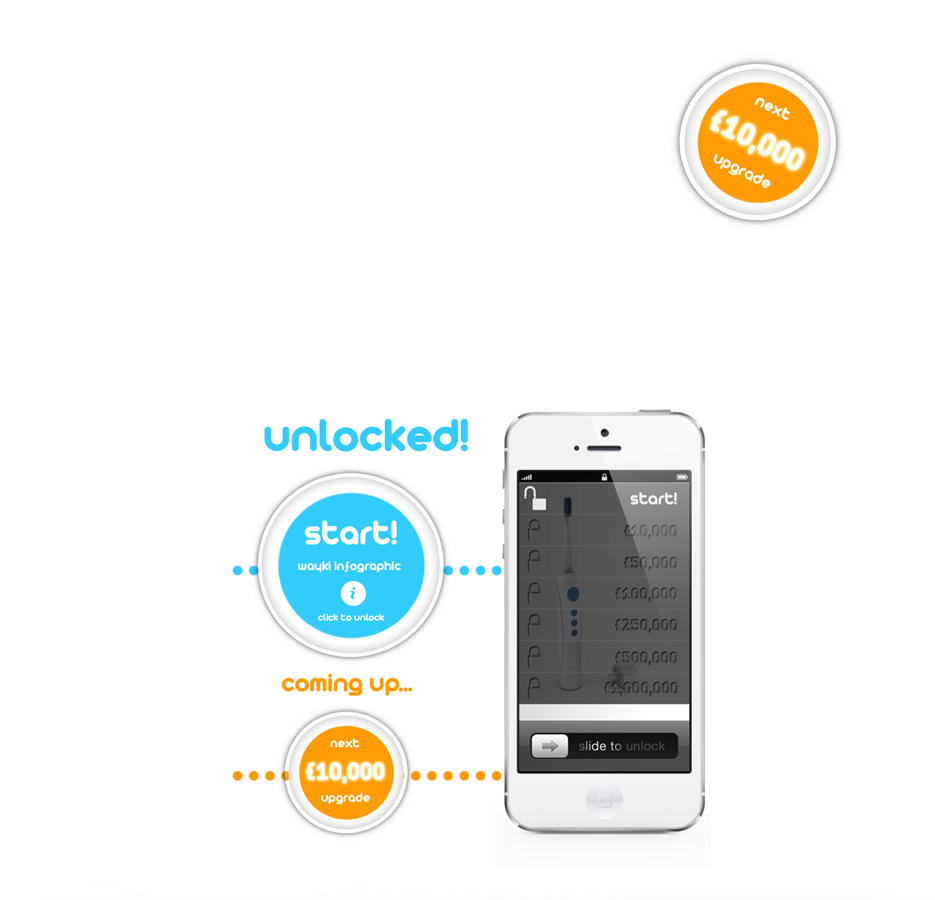
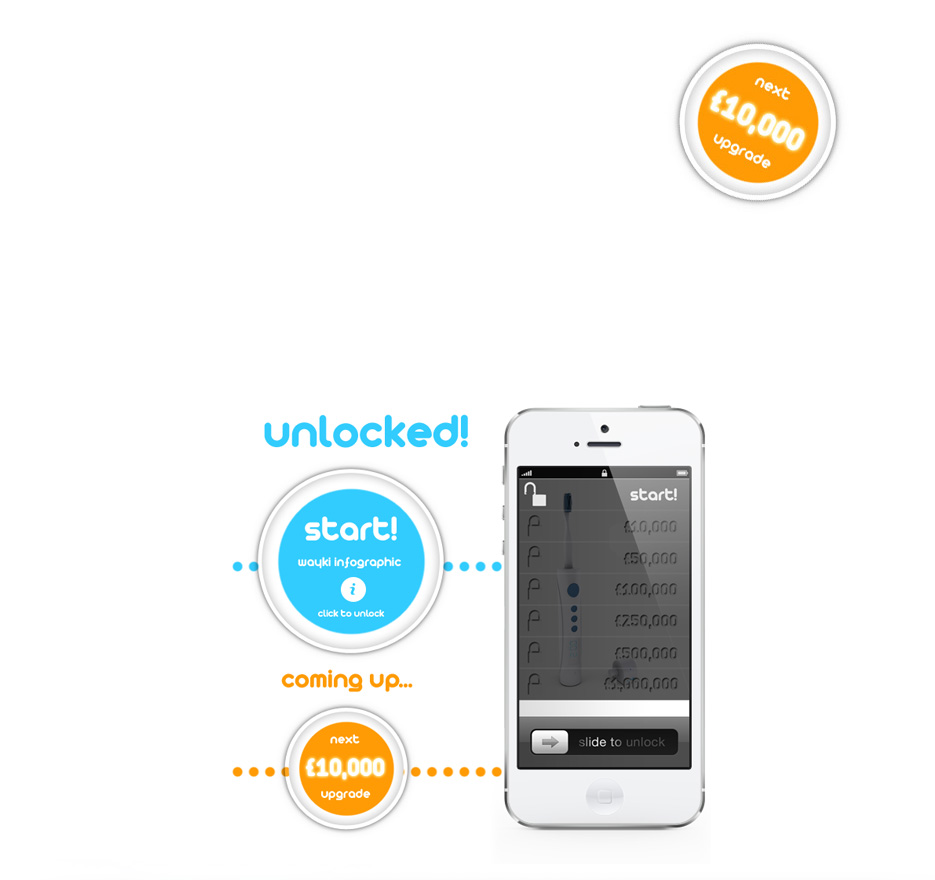
change

Changed region(s): [[0.2481, 0.4295, 0.7754, 0.9511], [0.7134, 0.0307, 0.8995, 0.2455], [0.5893, 0.6443, 0.6203, 0.675]]

diff --git a/app/assets/stylesheets/homepage/key_points.css.scss b/app/assets/stylesheets/homepage/key_points.css.scss
@@ -57,7 +57,7 @@ h3 {
 
 #seven {
   background: url(image_path("7-background.jpg")) no-repeat bottom left;
-  height: 880px;
+  height: 870px;
 }
 
 .right {
